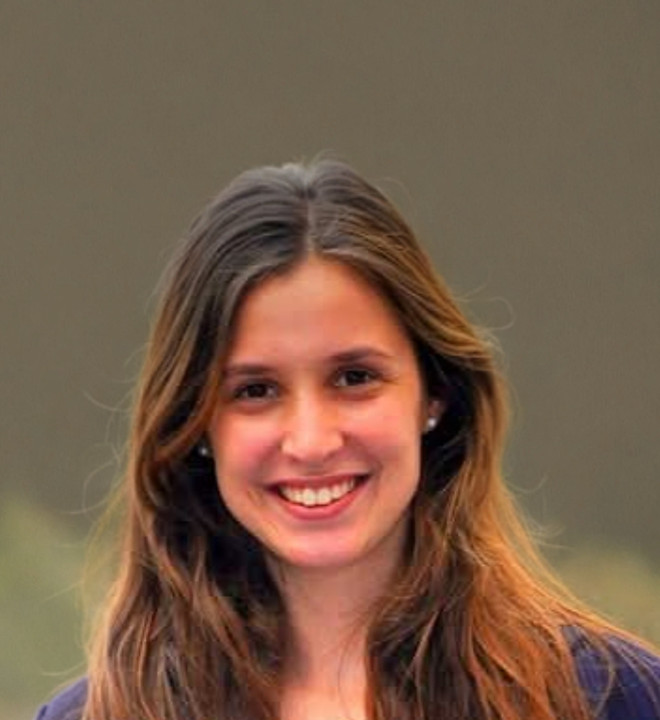
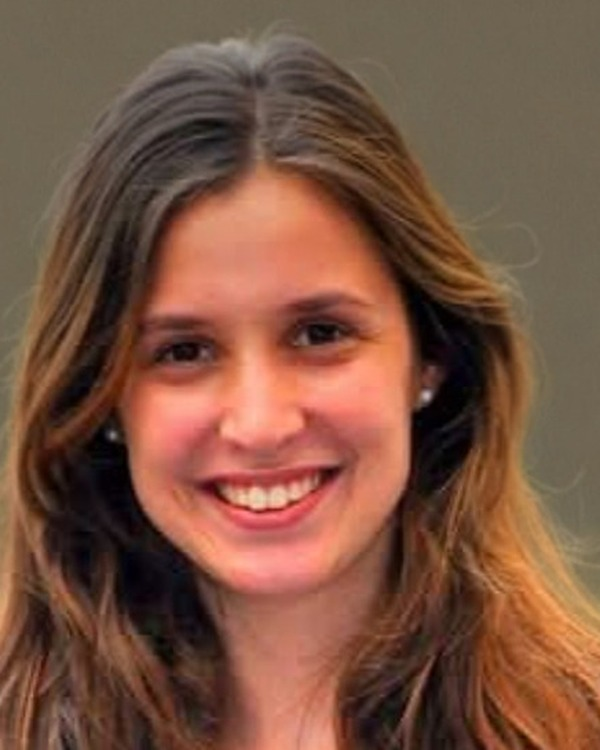
Re-crop Regina Blanco and Marina Pistarini photos to match team grid
Both source photos had much more headroom and torso visible than the
rest of the team (face occupying a small fraction of the frame), so
next to tightly-cropped headshots like Alfredo Sol or Ana Persiani
their faces read as noticeably smaller and lower in the card. Re-cropped
both to the same tight head-and-shoulders framing as the rest of the
team, on both Our Experts and the home page's experts preview carousel
(EN + ES).

diff --git a/index-es.html b/index-es.html
@@ -300,7 +300,7 @@
 
       <div class="experts-carousel-card reveal" style="animation-delay:0.2s;">
         <div class="photo-wipe" style="width:100%; aspect-ratio:4/5; border-radius:12px; overflow:hidden; margin-bottom:14px;">
-          <img src="images/regina-blanco.jpg" width="660" height="720" loading="lazy" alt="Regina Blanco" style="width:100%; height:100%; object-fit:cover; display:block;">
+          <img src="images/regina-blanco.jpg" width="480" height="600" loading="lazy" alt="Regina Blanco" style="width:100%; height:100%; object-fit:cover; display:block;">
         </div>
         <h3 class="expert-name" style="margin:0; font-size:16px; font-weight:900; letter-spacing:-0.01em;">Regina Blanco</h3>
         <div class="expert-role" style="font-size:13px; color:var(--graphite); margin-top:2px;">Oficial de Comunicaciones</div>
@@ -317,7 +317,7 @@
 
       <div class="experts-carousel-card reveal" style="animation-delay:0.24s;">
         <div class="photo-wipe" style="width:100%; aspect-ratio:4/5; border-radius:12px; overflow:hidden; margin-bottom:14px;">
-          <img src="images/marina-pistarini.jpg" width="660" height="720" loading="lazy" alt="Marina Pistarini" style="width:100%; height:100%; object-fit:cover; display:block;">
+          <img src="images/marina-pistarini.jpg" width="600" height="750" loading="lazy" alt="Marina Pistarini" style="width:100%; height:100%; object-fit:cover; display:block;">
         </div>
         <h3 class="expert-name" style="margin:0; font-size:16px; font-weight:900; letter-spacing:-0.01em;">Marina Pistarini</h3>
         <div class="expert-role" style="font-size:13px; color:var(--graphite); margin-top:2px;">Desarrollo de Negocios</div>

diff --git a/index.html b/index.html
@@ -301,7 +301,7 @@
 
       <div class="experts-carousel-card reveal" style="animation-delay:0.2s;">
         <div class="photo-wipe" style="width:100%; aspect-ratio:4/5; border-radius:12px; overflow:hidden; margin-bottom:14px;">
-          <img src="images/regina-blanco.jpg" width="660" height="720" loading="lazy" alt="Regina Blanco" style="width:100%; height:100%; object-fit:cover; display:block;">
+          <img src="images/regina-blanco.jpg" width="480" height="600" loading="lazy" alt="Regina Blanco" style="width:100%; height:100%; object-fit:cover; display:block;">
         </div>
         <h3 class="expert-name" style="margin:0; font-size:16px; font-weight:900; letter-spacing:-0.01em;">Regina Blanco</h3>
         <div class="expert-role" style="font-size:13px; color:var(--graphite); margin-top:2px;">Communications Officer</div>
@@ -318,7 +318,7 @@
 
       <div class="experts-carousel-card reveal" style="animation-delay:0.24s;">
         <div class="photo-wipe" style="width:100%; aspect-ratio:4/5; border-radius:12px; overflow:hidden; margin-bottom:14px;">
-          <img src="images/marina-pistarini.jpg" width="660" height="720" loading="lazy" alt="Marina Pistarini" style="width:100%; height:100%; object-fit:cover; display:block;">
+          <img src="images/marina-pistarini.jpg" width="600" height="750" loading="lazy" alt="Marina Pistarini" style="width:100%; height:100%; object-fit:cover; display:block;">
         </div>
         <h3 class="expert-name" style="margin:0; font-size:16px; font-weight:900; letter-spacing:-0.01em;">Marina Pistarini</h3>
         <div class="expert-role" style="font-size:13px; color:var(--graphite); margin-top:2px;">Business Development</div>

diff --git a/experts-es.html b/experts-es.html
@@ -162,7 +162,7 @@
 
       <div class="reveal" style="animation-delay:.04s;">
         <div class="photo-wipe" style="width:100%; aspect-ratio:4/5; border-radius:12px; overflow:hidden; margin-bottom:14px;">
-          <img src="images/regina-blanco.jpg" width="660" height="720" loading="lazy" alt="Regina Blanco" style="width:100%; height:100%; object-fit:cover; display:block;">
+          <img src="images/regina-blanco.jpg" width="480" height="600" loading="lazy" alt="Regina Blanco" style="width:100%; height:100%; object-fit:cover; display:block;">
         </div>
         <h3 class="expert-name" style="margin:0; font-size:16px; font-weight:900; letter-spacing:-0.01em;">Regina Blanco</h3>
         <div class="expert-role" style="font-size:13px; color:var(--graphite); margin-top:2px;">Oficial de Comunicaciones</div>
@@ -181,7 +181,7 @@
 
       <div class="reveal" style="animation-delay:.08s;">
         <div class="photo-wipe" style="width:100%; aspect-ratio:4/5; border-radius:12px; overflow:hidden; margin-bottom:14px;">
-          <img src="images/marina-pistarini.jpg" width="660" height="720" loading="lazy" alt="Marina Pistarini" style="width:100%; height:100%; object-fit:cover; display:block;">
+          <img src="images/marina-pistarini.jpg" width="600" height="750" loading="lazy" alt="Marina Pistarini" style="width:100%; height:100%; object-fit:cover; display:block;">
         </div>
         <h3 class="expert-name" style="margin:0; font-size:16px; font-weight:900; letter-spacing:-0.01em;">Marina Pistarini</h3>
         <div class="expert-role" style="font-size:13px; color:var(--graphite); margin-top:2px;">Desarrollo de Negocios</div>

diff --git a/experts.html b/experts.html
@@ -176,7 +176,7 @@
 
       <div class="reveal" style="animation-delay:.04s;">
         <div class="photo-wipe" style="width:100%; aspect-ratio:4/5; border-radius:12px; overflow:hidden; margin-bottom:14px;">
-          <img src="images/regina-blanco.jpg" width="660" height="720" loading="lazy" alt="Regina Blanco" style="width:100%; height:100%; object-fit:cover; display:block;">
+          <img src="images/regina-blanco.jpg" width="480" height="600" loading="lazy" alt="Regina Blanco" style="width:100%; height:100%; object-fit:cover; display:block;">
         </div>
         <h3 class="expert-name" style="margin:0; font-size:16px; font-weight:900; letter-spacing:-0.01em;">Regina Blanco</h3>
         <div class="expert-role" style="font-size:13px; color:var(--graphite); margin-top:2px;">Communications Officer</div>
@@ -195,7 +195,7 @@
 
       <div class="reveal" style="animation-delay:.08s;">
         <div class="photo-wipe" style="width:100%; aspect-ratio:4/5; border-radius:12px; overflow:hidden; margin-bottom:14px;">
-          <img src="images/marina-pistarini.jpg" width="660" height="720" loading="lazy" alt="Marina Pistarini" style="width:100%; height:100%; object-fit:cover; display:block;">
+          <img src="images/marina-pistarini.jpg" width="600" height="750" loading="lazy" alt="Marina Pistarini" style="width:100%; height:100%; object-fit:cover; display:block;">
         </div>
         <h3 class="expert-name" style="margin:0; font-size:16px; font-weight:900; letter-spacing:-0.01em;">Marina Pistarini</h3>
         <div class="expert-role" style="font-size:13px; color:var(--graphite); margin-top:2px;">Business Development</div>
